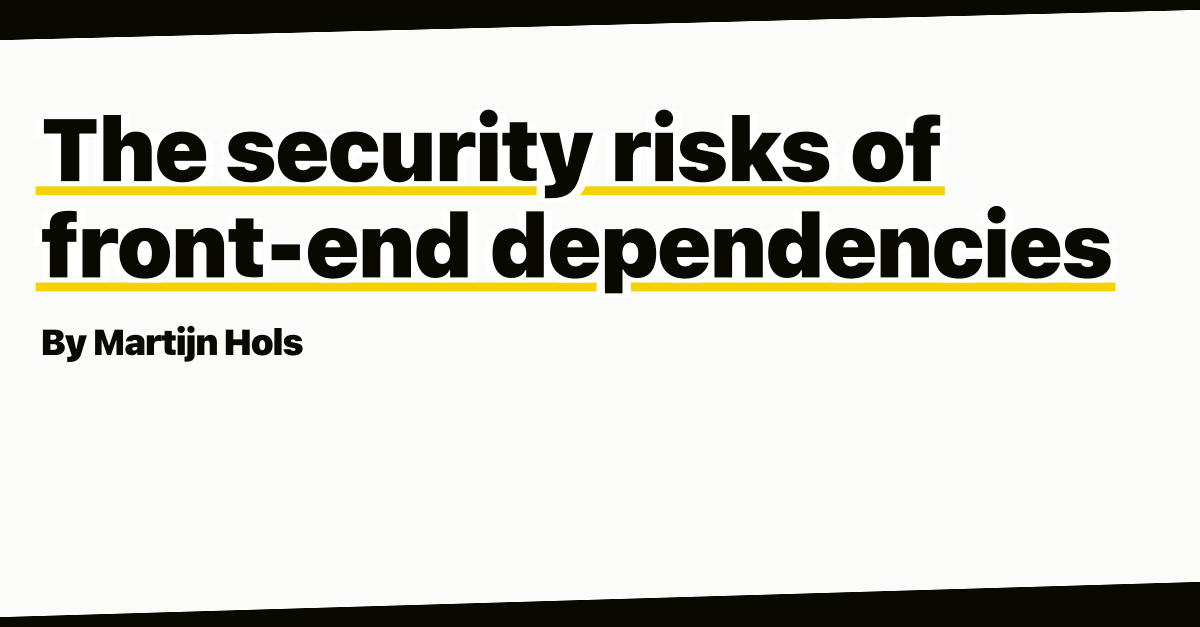
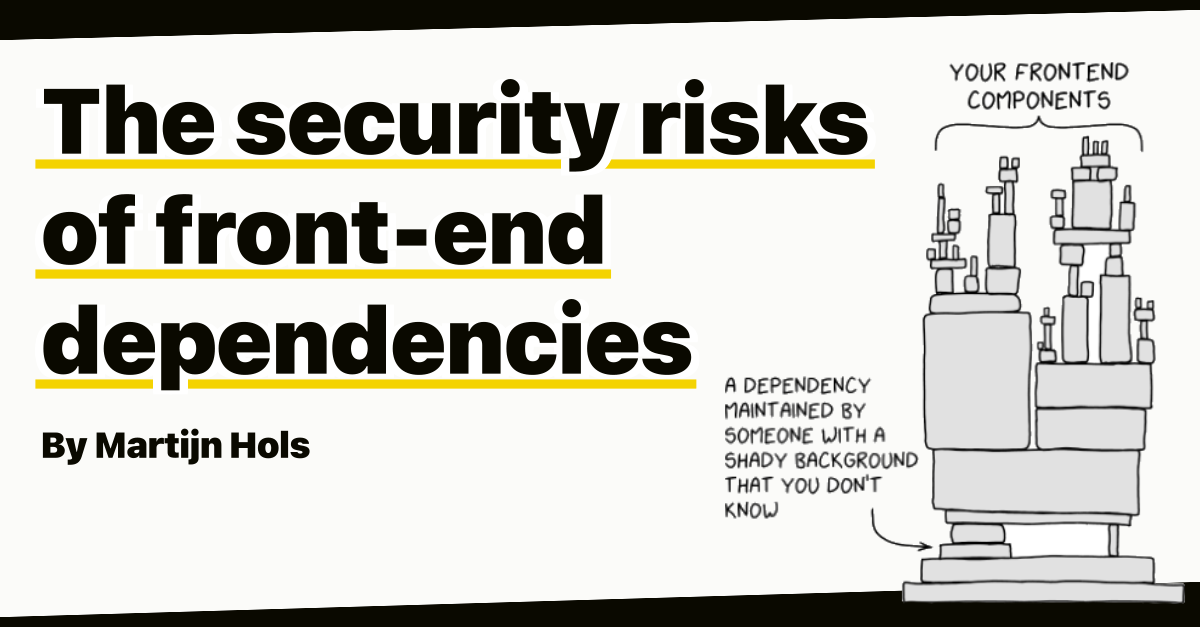
Add image to security risks of dependencies article

diff --git a/pages/blog/the-security-risks-of-front-end-dependencies.tsx b/pages/blog/the-security-risks-of-front-end-dependencies.tsx
@@ -12,6 +12,7 @@ import Link from '../../components/Link'
 import articleMeta, { ArticleStaticProps } from '../../utils/articleMeta'
 import BundledPackageCode from './assets/bundled-package-code.png'
 import CanIIgnore from './assets/can-i-ignore.png'
+import dependencySecurityRisksImage from './assets/dependency-security-risks.png'
 import GithubSecurityAdvisories from './assets/github-security-advisories.png'
 import openGraphImage from './assets/ogimage-security-implications-of-packages.png'
 
@@ -21,8 +22,10 @@ const { meta, getStaticProps } = articleMeta({
   description:
     'A dive into the security risks of using third-party dependencies in front-end projects.',
   openGraphImage: openGraphImage,
+  image: dependencySecurityRisksImage,
   publishedAt: '2024-04-15',
   republishedAt: '2024-12-14',
+  updatedAt: '2025-02-02',
   republishedReason:
     'I rewrote the article to significantly improve the flow, add details and reduce repetition. The spirit of the article remains the same, but it should read a lot better.',
   tags: [
@@ -58,6 +61,27 @@ const SecurityImplicationsOfDependenciesOnTheFrontendGist = (
       for professional developers to understand and address their potential
       impact.
     </p>
+    <Figure
+      caption={
+        <div style={{ maxWidth: 400, margin: '0 auto' }}>
+          With thousands of dependencies, there's bound to be some shady
+          maintainers.
+          <br />
+          <small>
+            Based on the{' '}
+            <Link href="https://xkcd.com/2347/">xkcd 'Dependency' comic</Link>
+          </small>
+        </div>
+      }
+      captionLink={false}
+      href={dependencySecurityRisksImage.src}
+    >
+      <Image
+        src={dependencySecurityRisksImage}
+        width={400}
+        alt={`A modified version of the xkcd "Dependency" comic; a tower of blocks representing dependencies. The top is labeled with "Your frontend components", and a tiny block at the bottom has an arrow pointing with the text "A dependency maintained by someone with a shady background that you don't know".`}
+      />
+    </Figure>
     <p>
       In this article, we'll dive into these risks and explore their specific
       impact on front-end projects. The key concerns are:
